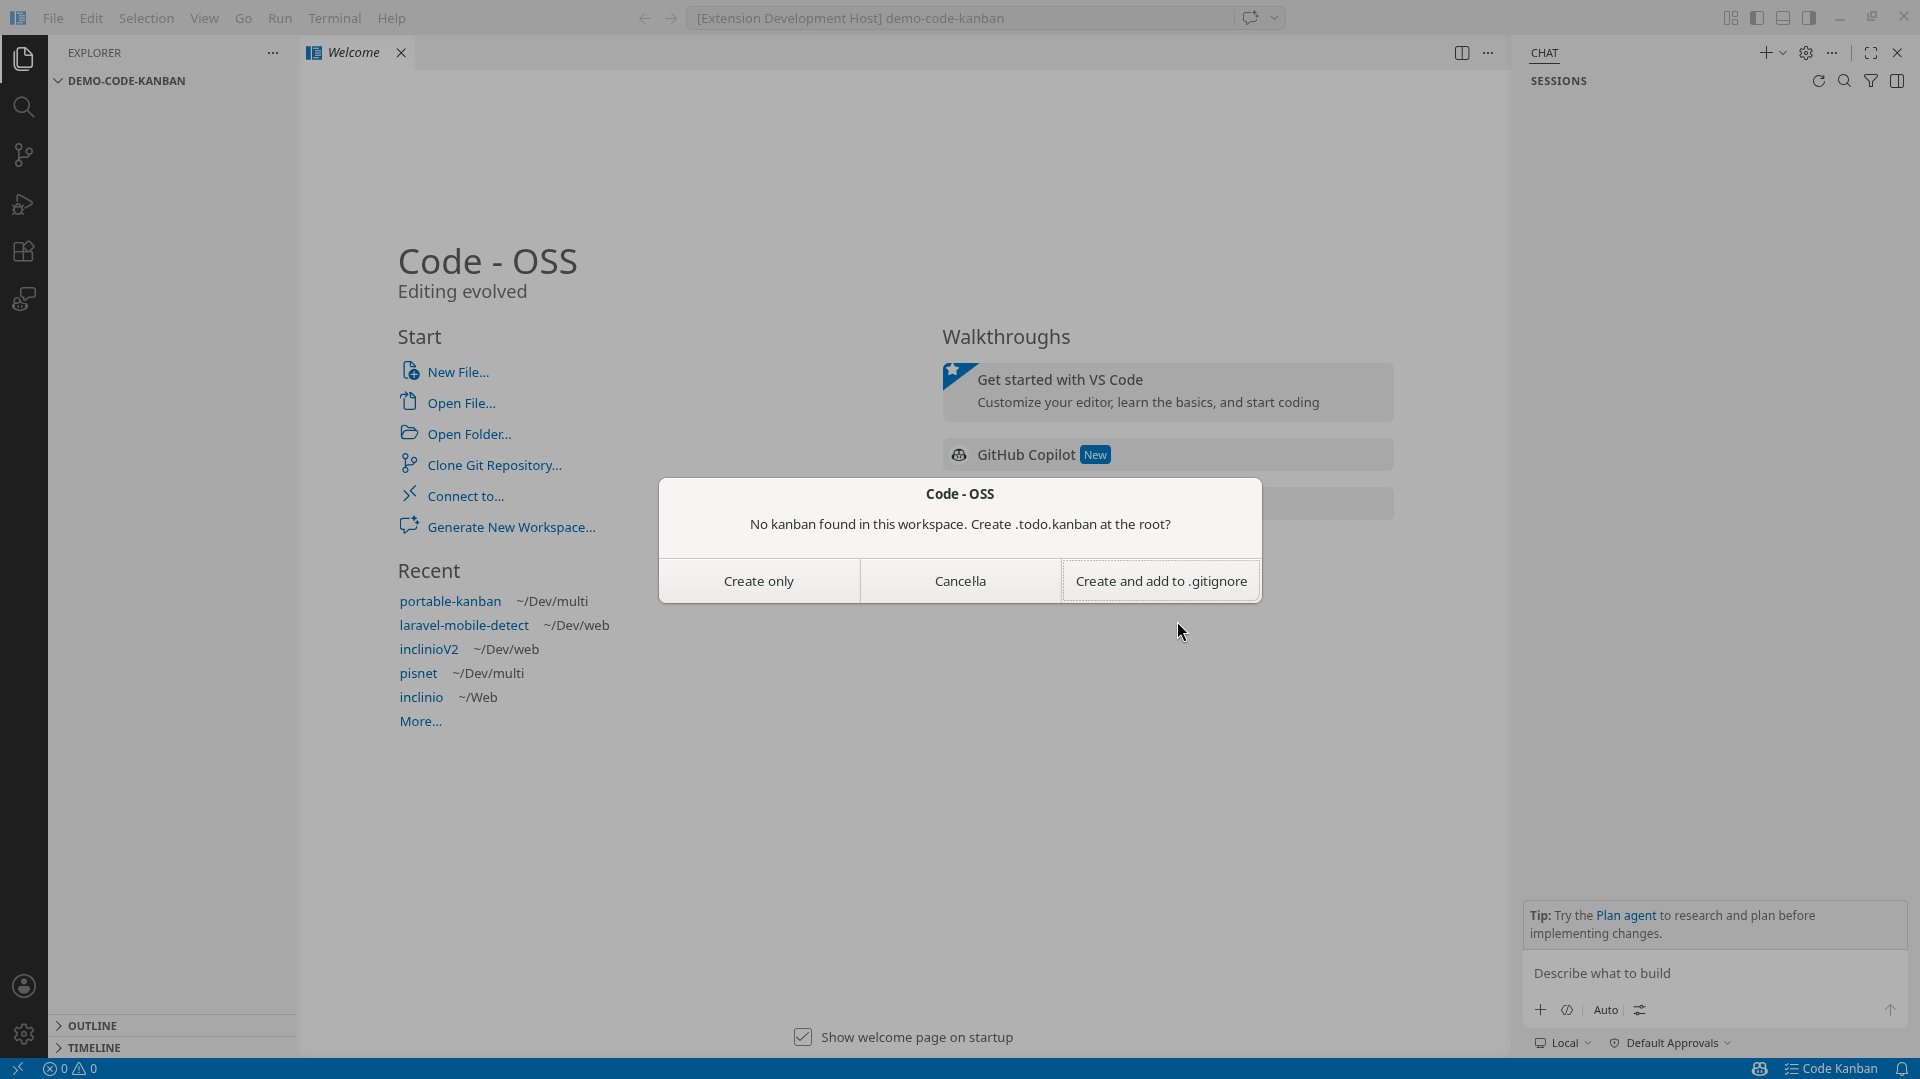
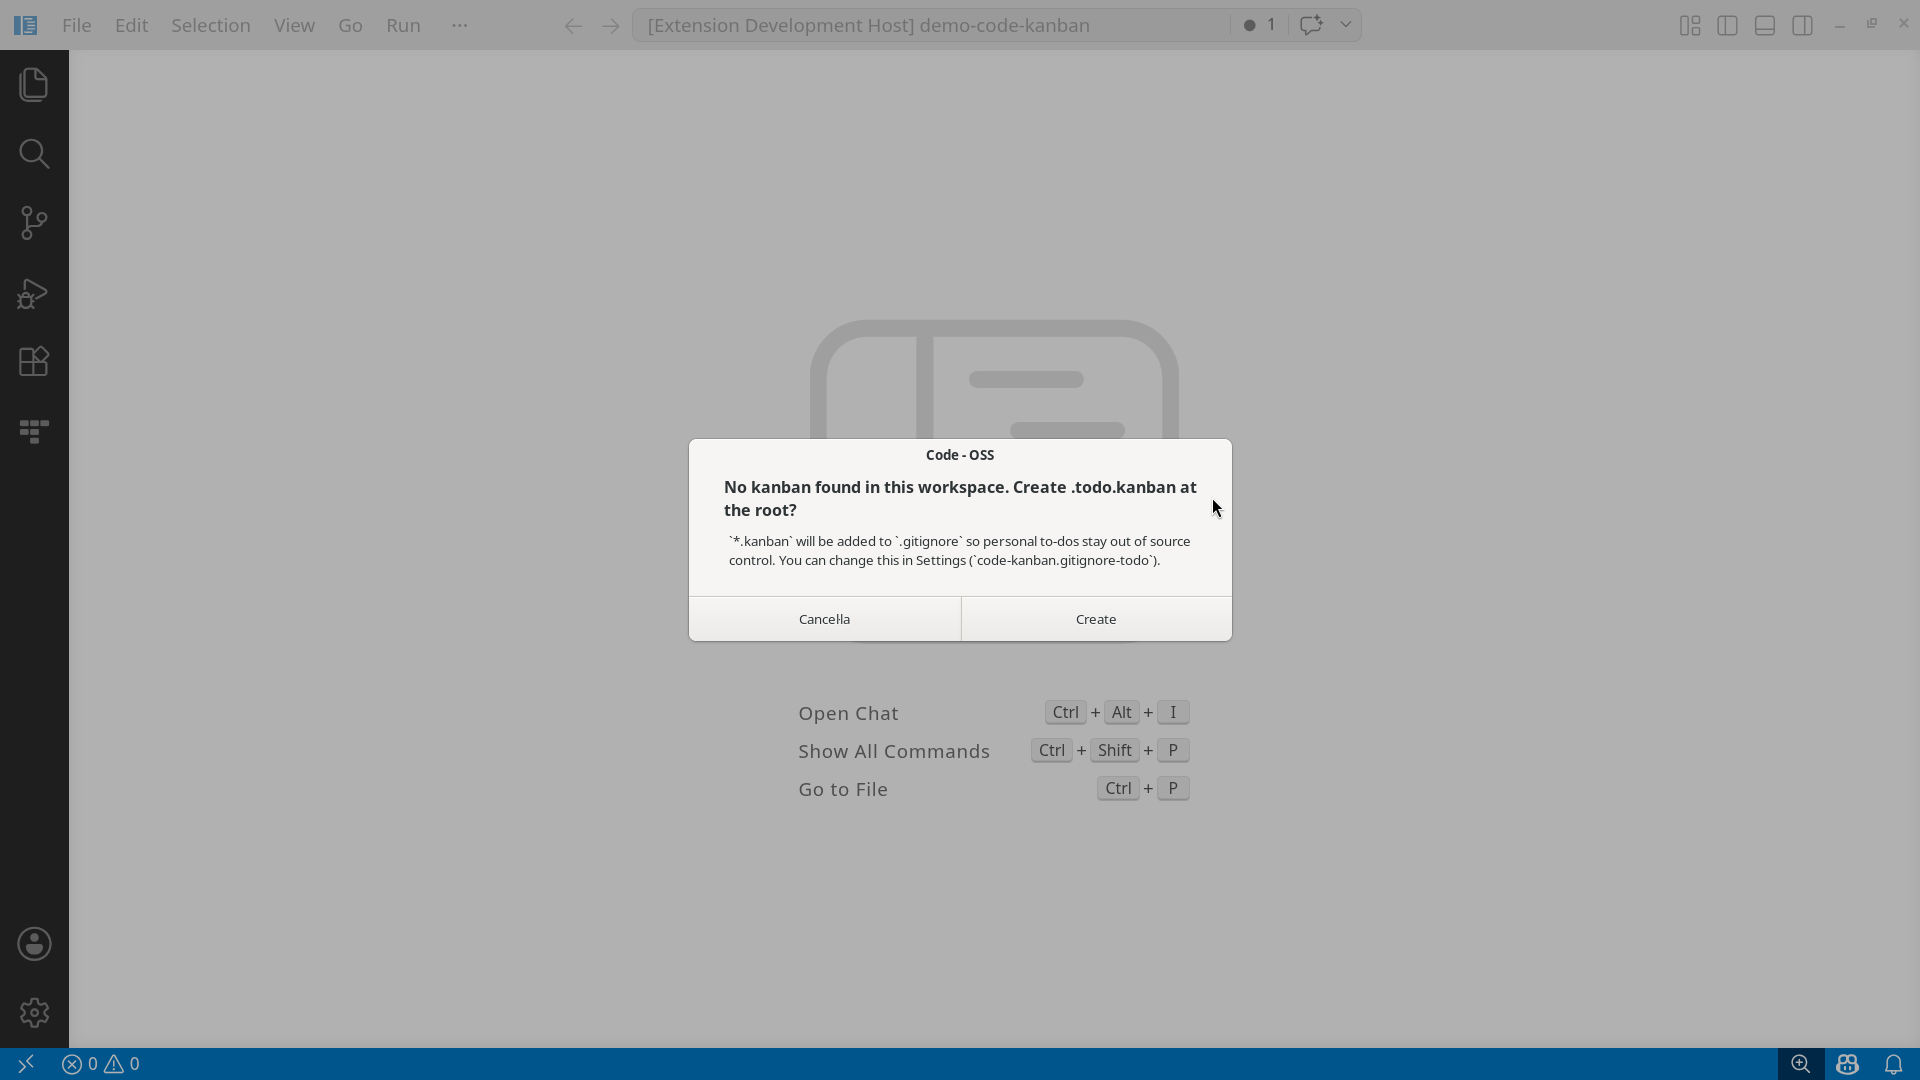
docs: add README screenshots + drag-demo GIF for the marketplace
Adds hero, status-bar toggle, sidebar panel, color picker, edit-card, dark
mode, and quick-start modal stills, plus a 12fps GIF of cross-list drag and
drop in the sidebar (including drop into a collapsed list). Replaces the
outdated two-button quick-start modal screenshot with the new single-button
flow. Drops the placeholder TODO comments from the README, wires every new
asset into its section, and notes the gitignore-todo setting in the Quick
Start text and the Defaults settings table.

diff --git a/README.md b/README.md
@@ -5,7 +5,6 @@
 Personal to-do boards that live alongside your code. Toggle them open with one keystroke, drag cards while you think, and keep everything in a `.kanban` JSON file that ships with your repo (or stays out of it).
 
 ![Code Kanban hero shot](./media/hero.png)
-<!-- TODO: hero.png — board open in main editor, light theme, ~3 columns with cards + at least one card with a label and a due date. 1600x900 ideally. -->
 
 ---
 
@@ -23,35 +22,34 @@ Personal to-do boards that live alongside your code. Toggle them open with one k
 `Ctrl+Alt+K` (or `Cmd+Alt+K`) opens or closes your project's `.todo.kanban` in the main editor. There's also a status-bar button if you prefer the mouse. No sidebar, no flash — just the file opens.
 
 ![Status-bar toggle](./media/status-bar-toggle.png)
-<!-- TODO: status-bar-toggle.png — close-up of the bottom status bar showing the "$(checklist) Code Kanban" item. Crop tight. -->
 
 ### Vertical board in the sidebar
 
 Switch `code-kanban.activity-bar-mode` to `panel` and the activity-bar icon opens a compact vertical board in the sidebar. Glance, drag, add — without leaving the file you're editing.
 
 ![Sidebar panel mode](./media/sidebar-panel.png)
-<!-- TODO: sidebar-panel.png — sidebar open with the vertical board, a couple of lists visible with cards. Light theme. -->
+
+Drag cards between lists right in the sidebar — even into collapsed lists, which expand on hover so you never lose the drop target.
+
+![Drag and drop in the sidebar](./media/drag-demo.gif)
 
 ### Per-column colours
 
 Pick a colour for any list from its menu — 8 presets that match the brand palette. The accent shows up on the column header, the card-selection border in the sidebar, and the inline "Add card" input.
 
 ![Per-column color picker](./media/color-picker.png)
-<!-- TODO: color-picker.png — kanban board with the kebab menu open on one column, the Color popup visible with the 8 swatches. -->
 
 ### Rich card editor
 
 Click a card to open the full editor: description (Markdown), labels, due date, task list with progress bar, and threaded comments. Everything saves to disk as you type — no "did you want to save?" dialog when you close the tab.
 
 ![Edit card modal](./media/edit-card.png)
-<!-- TODO: edit-card.png — the EditCard modal open with a description, a label, a due date and a couple of tasks. -->
 
 ### Dark mode and theme awareness
 
 Pick `light`, `dark`, or `system`. In `system` the kanban canvas pulls from your VSCode editor background, so it always matches the rest of the workbench.
 
 ![Dark mode](./media/dark-mode.png)
-<!-- TODO: dark-mode.png — same board as the hero, but in dark theme. Shows the lime / blue / amber accents holding up on dark surfaces. -->
 
 ---
 
@@ -71,7 +69,10 @@ code --install-extension marcover9000.code-kanban
 
 ## Quick start
 
-1. Press `Ctrl+Alt+K` in any workspace. A dialog will offer to create `.todo.kanban` at the workspace root (with an option to add `*.kanban` to your `.gitignore`).
+1. Press `Ctrl+Alt+K` in any workspace. A dialog will offer to create `.todo.kanban` at the workspace root. By default it also appends `*.kanban` to your `.gitignore` so personal to-dos stay out of source control — flip `code-kanban.gitignore-todo` off if you'd rather track the board in git and share it with your team.
+
+   ![Quick start modal](./media/quick-start-modal.png)
+
 2. The board opens. Click `+ Add Card` in any list, type a title, press Enter.
 3. Drag cards between columns.
 4. Click a card to add labels, due date, description, tasks, or comments.
@@ -96,6 +97,7 @@ All settings live under `code-kanban.*` in VSCode settings.
 |---|---|---|
 | `code-kanban.default-lists` | `["Backlog", "To Do", "Doing", "Done"]` | Column titles used when creating a new board. |
 | `code-kanban.theme` | `system` | `light`, `dark`, or `system` (follow VSCode). |
+| `code-kanban.gitignore-todo` | `true` | Append `*.kanban` to `.gitignore` when auto-creating `.todo.kanban`. Set to `false` to share the board with your team via git. |
 
 ### Card density
 